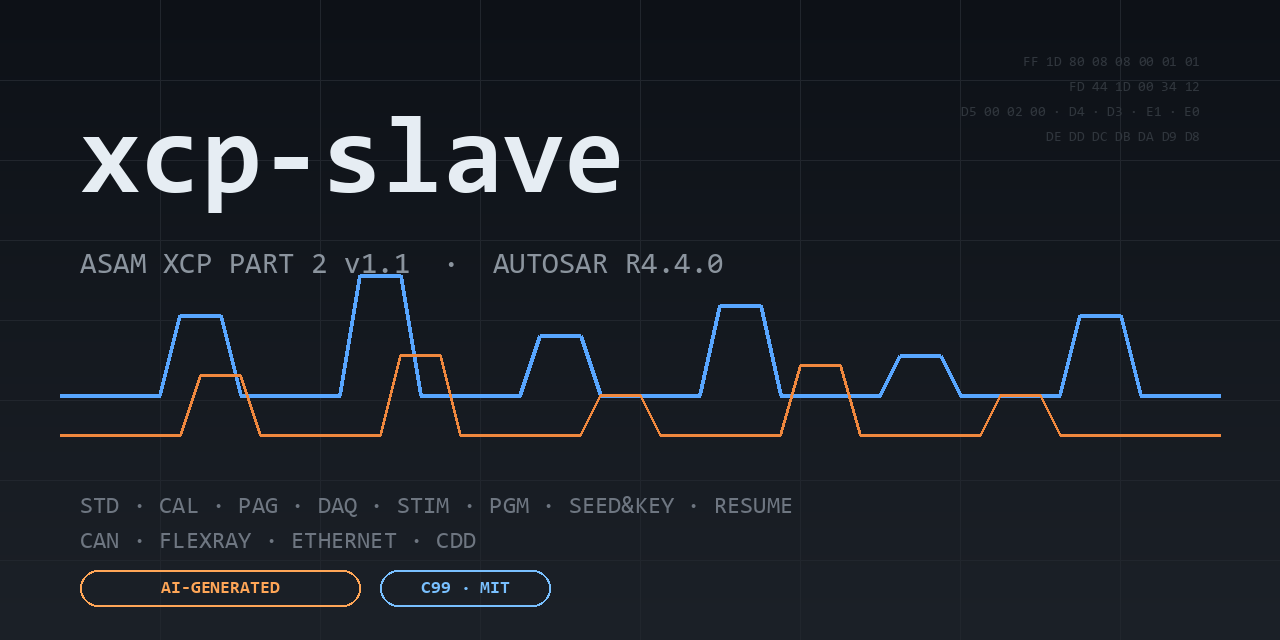
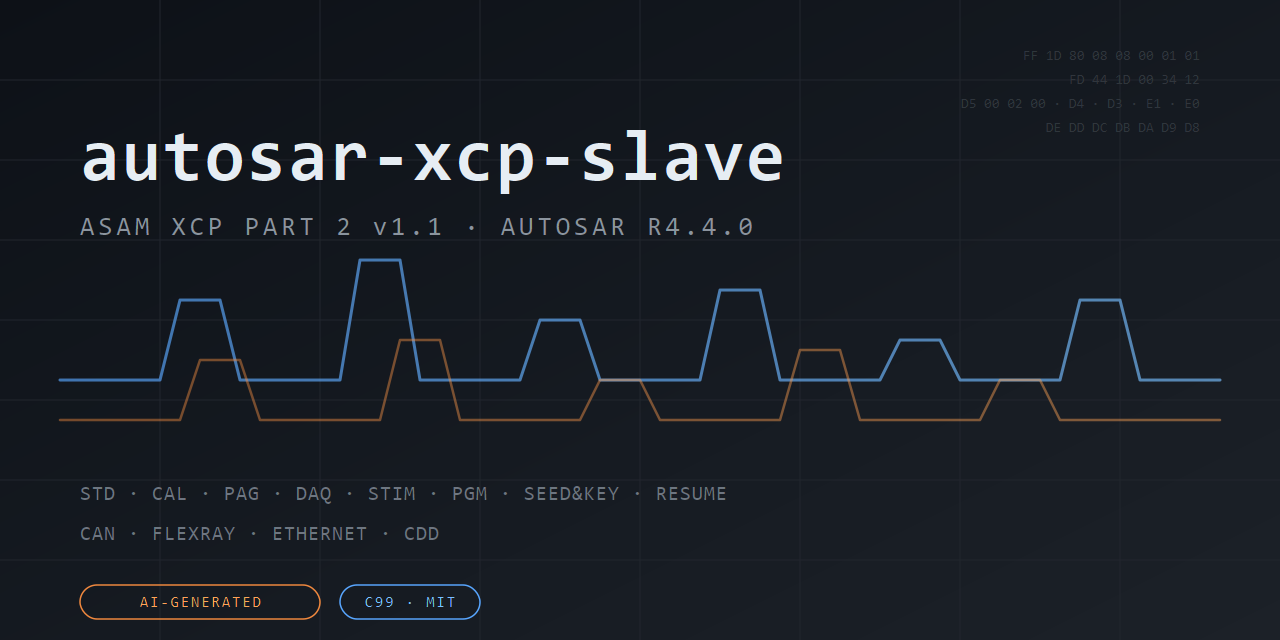
chore: move repository to autosar-xcp-slave

diff --git a/README.md b/README.md
@@ -1,15 +1,15 @@
 # XCP Slave Stack
 > **中文**: [README.zh-CN.md](README.zh-CN.md)
 
-![xcp-slave — ASAM XCP Part 2 v1.1 slave](docs/images/social-preview.png)
+![autosar-xcp-slave — ASAM XCP Part 2 v1.1 slave](docs/images/social-preview.png)
 
 An independent, portable implementation of the **ASAM XCP Part 2 v1.1** slave (target device) protocol,
 organized as an AUTOSAR Classic Platform BSW module (R4.4.0 API surface).
 
 Single-channel, C99, no external dependencies beyond your integration hooks.
 
-[![Release](https://img.shields.io/github/v/release/wuwuzhazha/xcp-slave.svg?label=Release&sort=semver)](https://github.com/wuwuzhazha/xcp-slave/releases)
-[![CI](https://github.com/wuwuzhazha/xcp-slave/workflows/ci/badge.svg)](https://github.com/wuwuzhazha/xcp-slave/actions)
+[![Release](https://img.shields.io/github/v/release/wuwuzhazha/autosar-xcp-slave.svg?label=Release&sort=semver)](https://github.com/wuwuzhazha/autosar-xcp-slave/releases)
+[![CI](https://github.com/wuwuzhazha/autosar-xcp-slave/workflows/ci/badge.svg)](https://github.com/wuwuzhazha/autosar-xcp-slave/actions)
 [![License: MIT](https://img.shields.io/badge/License-MIT-blue.svg)](LICENSE)
 
 ---

diff --git a/README.zh-CN.md b/README.zh-CN.md
@@ -2,15 +2,15 @@
 
 # XCP 从站协议栈
 
-![xcp-slave — ASAM XCP Part 2 v1.1 从站](docs/images/social-preview.png)
+![autosar-xcp-slave — ASAM XCP Part 2 v1.1 从站](docs/images/social-preview.png)
 
 一个独立、可移植的 **ASAM XCP Part 2 v1.1** 从站（目标设备）协议实现，
 按 AUTOSAR Classic Platform BSW 模块（R4.4.0 API 接口）的形式组织。
 
 单通道，C99，除你的集成钩子外无外部依赖。
 
-[![Release](https://img.shields.io/github/v/release/wuwuzhazha/xcp-slave.svg?label=Release&sort=semver)](https://github.com/wuwuzhazha/xcp-slave/releases)
-[![CI](https://github.com/wuwuzhazha/xcp-slave/workflows/ci/badge.svg)](https://github.com/wuwuzhazha/xcp-slave/actions)
+[![Release](https://img.shields.io/github/v/release/wuwuzhazha/autosar-xcp-slave.svg?label=Release&sort=semver)](https://github.com/wuwuzhazha/autosar-xcp-slave/releases)
+[![CI](https://github.com/wuwuzhazha/autosar-xcp-slave/workflows/ci/badge.svg)](https://github.com/wuwuzhazha/autosar-xcp-slave/actions)
 [![License: MIT](https://img.shields.io/badge/License-MIT-blue.svg)](LICENSE)
 
 ---

diff --git a/SECURITY.zh-CN.md b/SECURITY.zh-CN.md
@@ -15,7 +15,7 @@ XCP 是一种调试/标定协议——从站实现中若存在内存安全漏洞
 
 ## 报告漏洞
 
-**首选方式**：[GitHub 私密漏洞报告](https://github.com/wuwuzhazha/xcp-slave/security/advisories/new)
+**首选方式**：[GitHub 私密漏洞报告](https://github.com/wuwuzhazha/autosar-xcp-slave/security/advisories/new)
 （如果仓库在 GitHub 上是公开的）——提交私密 advisory；维护者会在漏洞披露前看到它。
 
 **其他方式**：提交一个常规 issue，但**不要**包含漏洞细节，并在其中请求一个私密联系渠道；维护者会跟进处理。

diff --git a/SECURITY.md b/SECURITY.md
@@ -16,7 +16,7 @@ Only the latest release tag receives security fixes.
 
 ## Reporting a Vulnerability
 
-**Preferred**: [GitHub private vulnerability reporting](https://github.com/wuwuzhazha/xcp-slave/security/advisories/new)
+**Preferred**: [GitHub private vulnerability reporting](https://github.com/wuwuzhazha/autosar-xcp-slave/security/advisories/new)
 (if the repo is public on GitHub) — file a private advisory; maintainers see it
 before it is disclosed.
 
